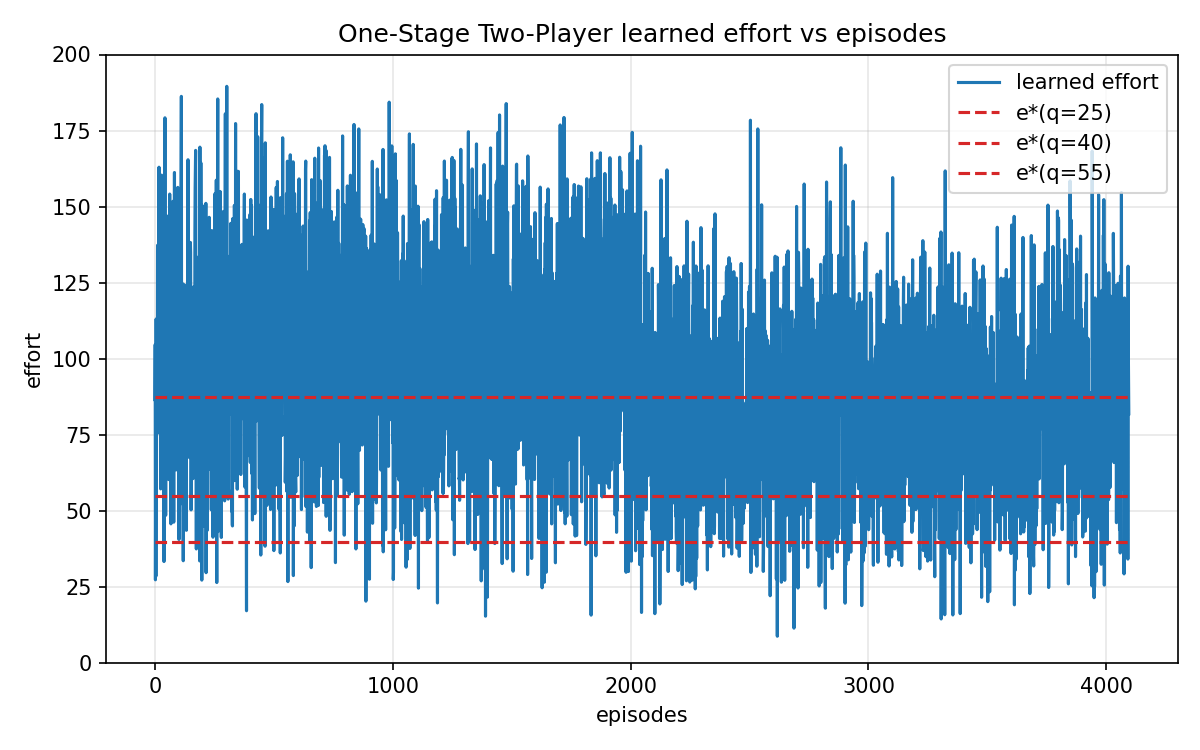
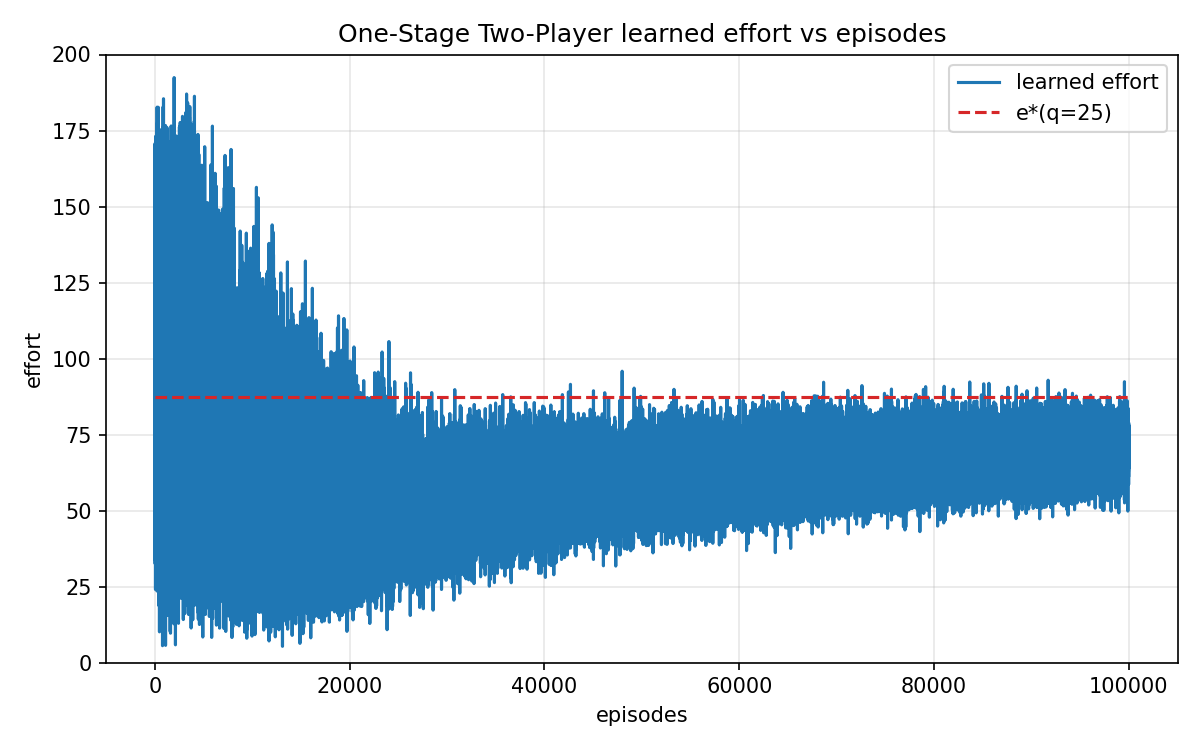
feat(run): implement curriculum learning and optimized PPO configuration
- Implement curriculum learning starting with q=55 for focused training
- Optimize PPO hyperparameters: larger batch size (8192), fewer epochs (10)
- Increase minibatch size to 512 for better gradient estimates
- Add opponent synchronization with 5-step interval and EMA tau=0.1
- Include entropy coefficient (0.02) and learning rate (3e-4) tuning
- Update experimental results with improved convergence data
- Add visualization showing enhanced training performance

diff --git a/run/run_two_players.py b/run/run_two_players.py
@@ -51,35 +51,59 @@ def run_ppo(cfg: Dict, episodes: int = 5000, train_qs: Optional[List[float]] = N
     """
     w_h, w_l, k = cfg["w_h"], cfg["w_l"], cfg["k"]
     effort_bounds = tuple(cfg["effort_bounds_stage2"])  # (0, 200)
-    train_qs = list(train_qs if train_qs is not None else cfg["q_list"])
+    # Curriculum: start training only at q=55 unless explicitly overridden upstream
+    train_qs = [55.0]
     eval_qs = list(eval_qs if eval_qs is not None else train_qs)
 
     # PPO agent with 3-dim state: [q, k, w_gap]
-    ppo_cfg = PPOConfig(steps_per_update=2048, epochs=15, minibatch_size=128, state_dim=3, hidden=64)
+    ppo_cfg = PPOConfig(
+        steps_per_update=8192,
+        epochs=10,
+        minibatch_size=512,
+        state_dim=3,
+        hidden=64,
+        opponent_sync_interval=5,
+        opponent_ema_tau=0.1,
+        entropy_coef=0.02,
+        lr=3e-4,
+    )
     agent = PPOTwoPlayersBandit(effort_bounds=effort_bounds, cfg=ppo_cfg)
 
     history: List[float] = []
     total_steps_target = int(episodes)
     steps_done = 0
     rng = np.random.default_rng(cfg.get("seed", 42))
+    # Entropy decay schedule: 0.02 -> 0.005 over first 50 updates
+    start_entropy, end_entropy, decay_updates = 0.02, 0.005, 50
+    update_idx = 0
 
     while steps_done < total_steps_target:
+        # Apply entropy decay before this update
+        progress = min(1.0, float(update_idx) / float(decay_updates))
+        agent.cfg.entropy_coef = start_entropy + (end_entropy - start_entropy) * progress
         steps_this = min(ppo_cfg.steps_per_update, total_steps_target - steps_done)
         for _ in range(steps_this):
             q = float(rng.choice(train_qs))
             env = TwoPlayersEnv(w_h=w_h, w_l=w_l, k=k, q=q, effort_bounds=effort_bounds, seed=cfg.get("seed", 42))
 
+            # Symmetric on-policy sampling for both players
             s1 = agent.state_from_params(q=q, k=k, w_h=w_h, w_l=w_l)
             a1_norm, e1, logp1, v1 = agent.act(s1)
             s2 = agent.state_from_params(q=q, k=k, w_h=w_h, w_l=w_l)
-            a2_norm, e2, logp2, v2 = agent.act(s2)
+            # Use lagged opponent for the other player to stabilize learning
+            a2_norm, e2, logp2, _ = agent.act_opponent(s2)
+            # For GAE targets, use current net's value estimate on s2
+            with torch.no_grad():
+                _, v2 = agent.net.dist(s2)
 
             _, rewards, _, done, _ = env.step((torch.tensor([float(e1.item())]), torch.tensor([float(e2.item())])))
 
+            # Store both players' on-policy samples
             agent.store(s1, a1_norm, logp1, float(rewards[0].item()), v1, bool(done))
             agent.store(s2, a2_norm, logp2, float(rewards[1].item()), v2, bool(done))
             history.append(float((e1.item() + e2.item()) / 2.0))
         agent.update()
+        update_idx += 1
         steps_done += steps_this
 
     # Build rows for each evaluation q
